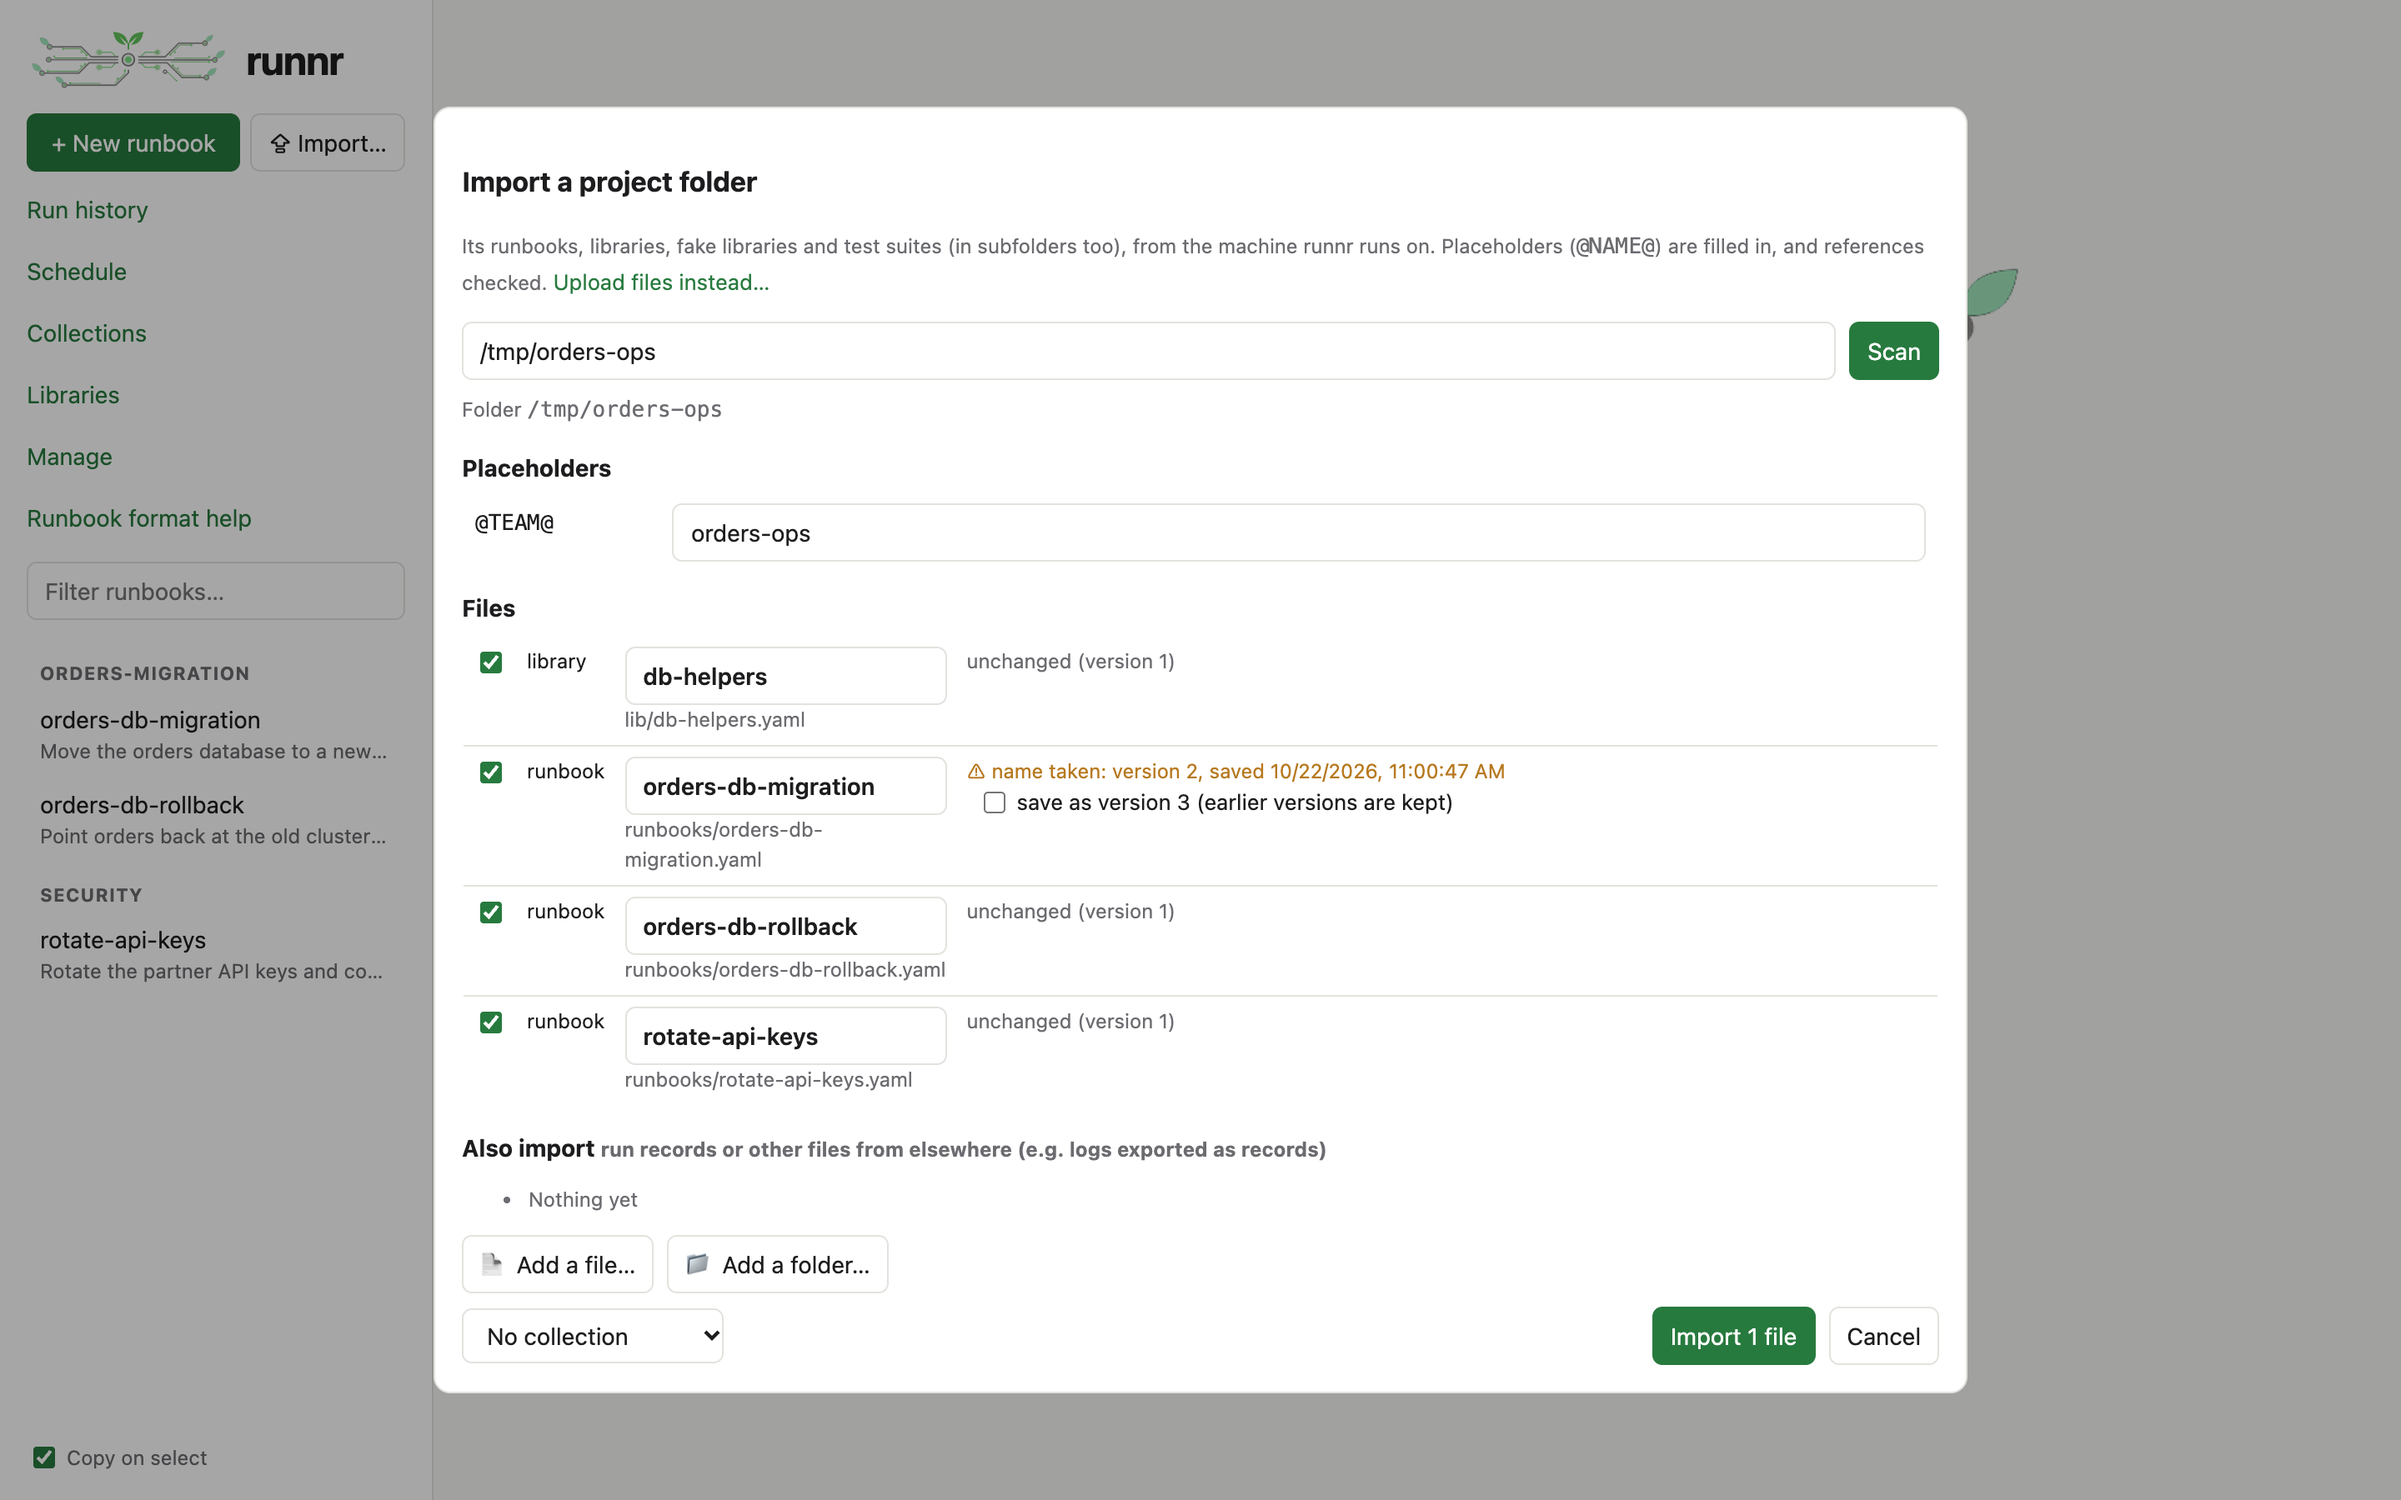
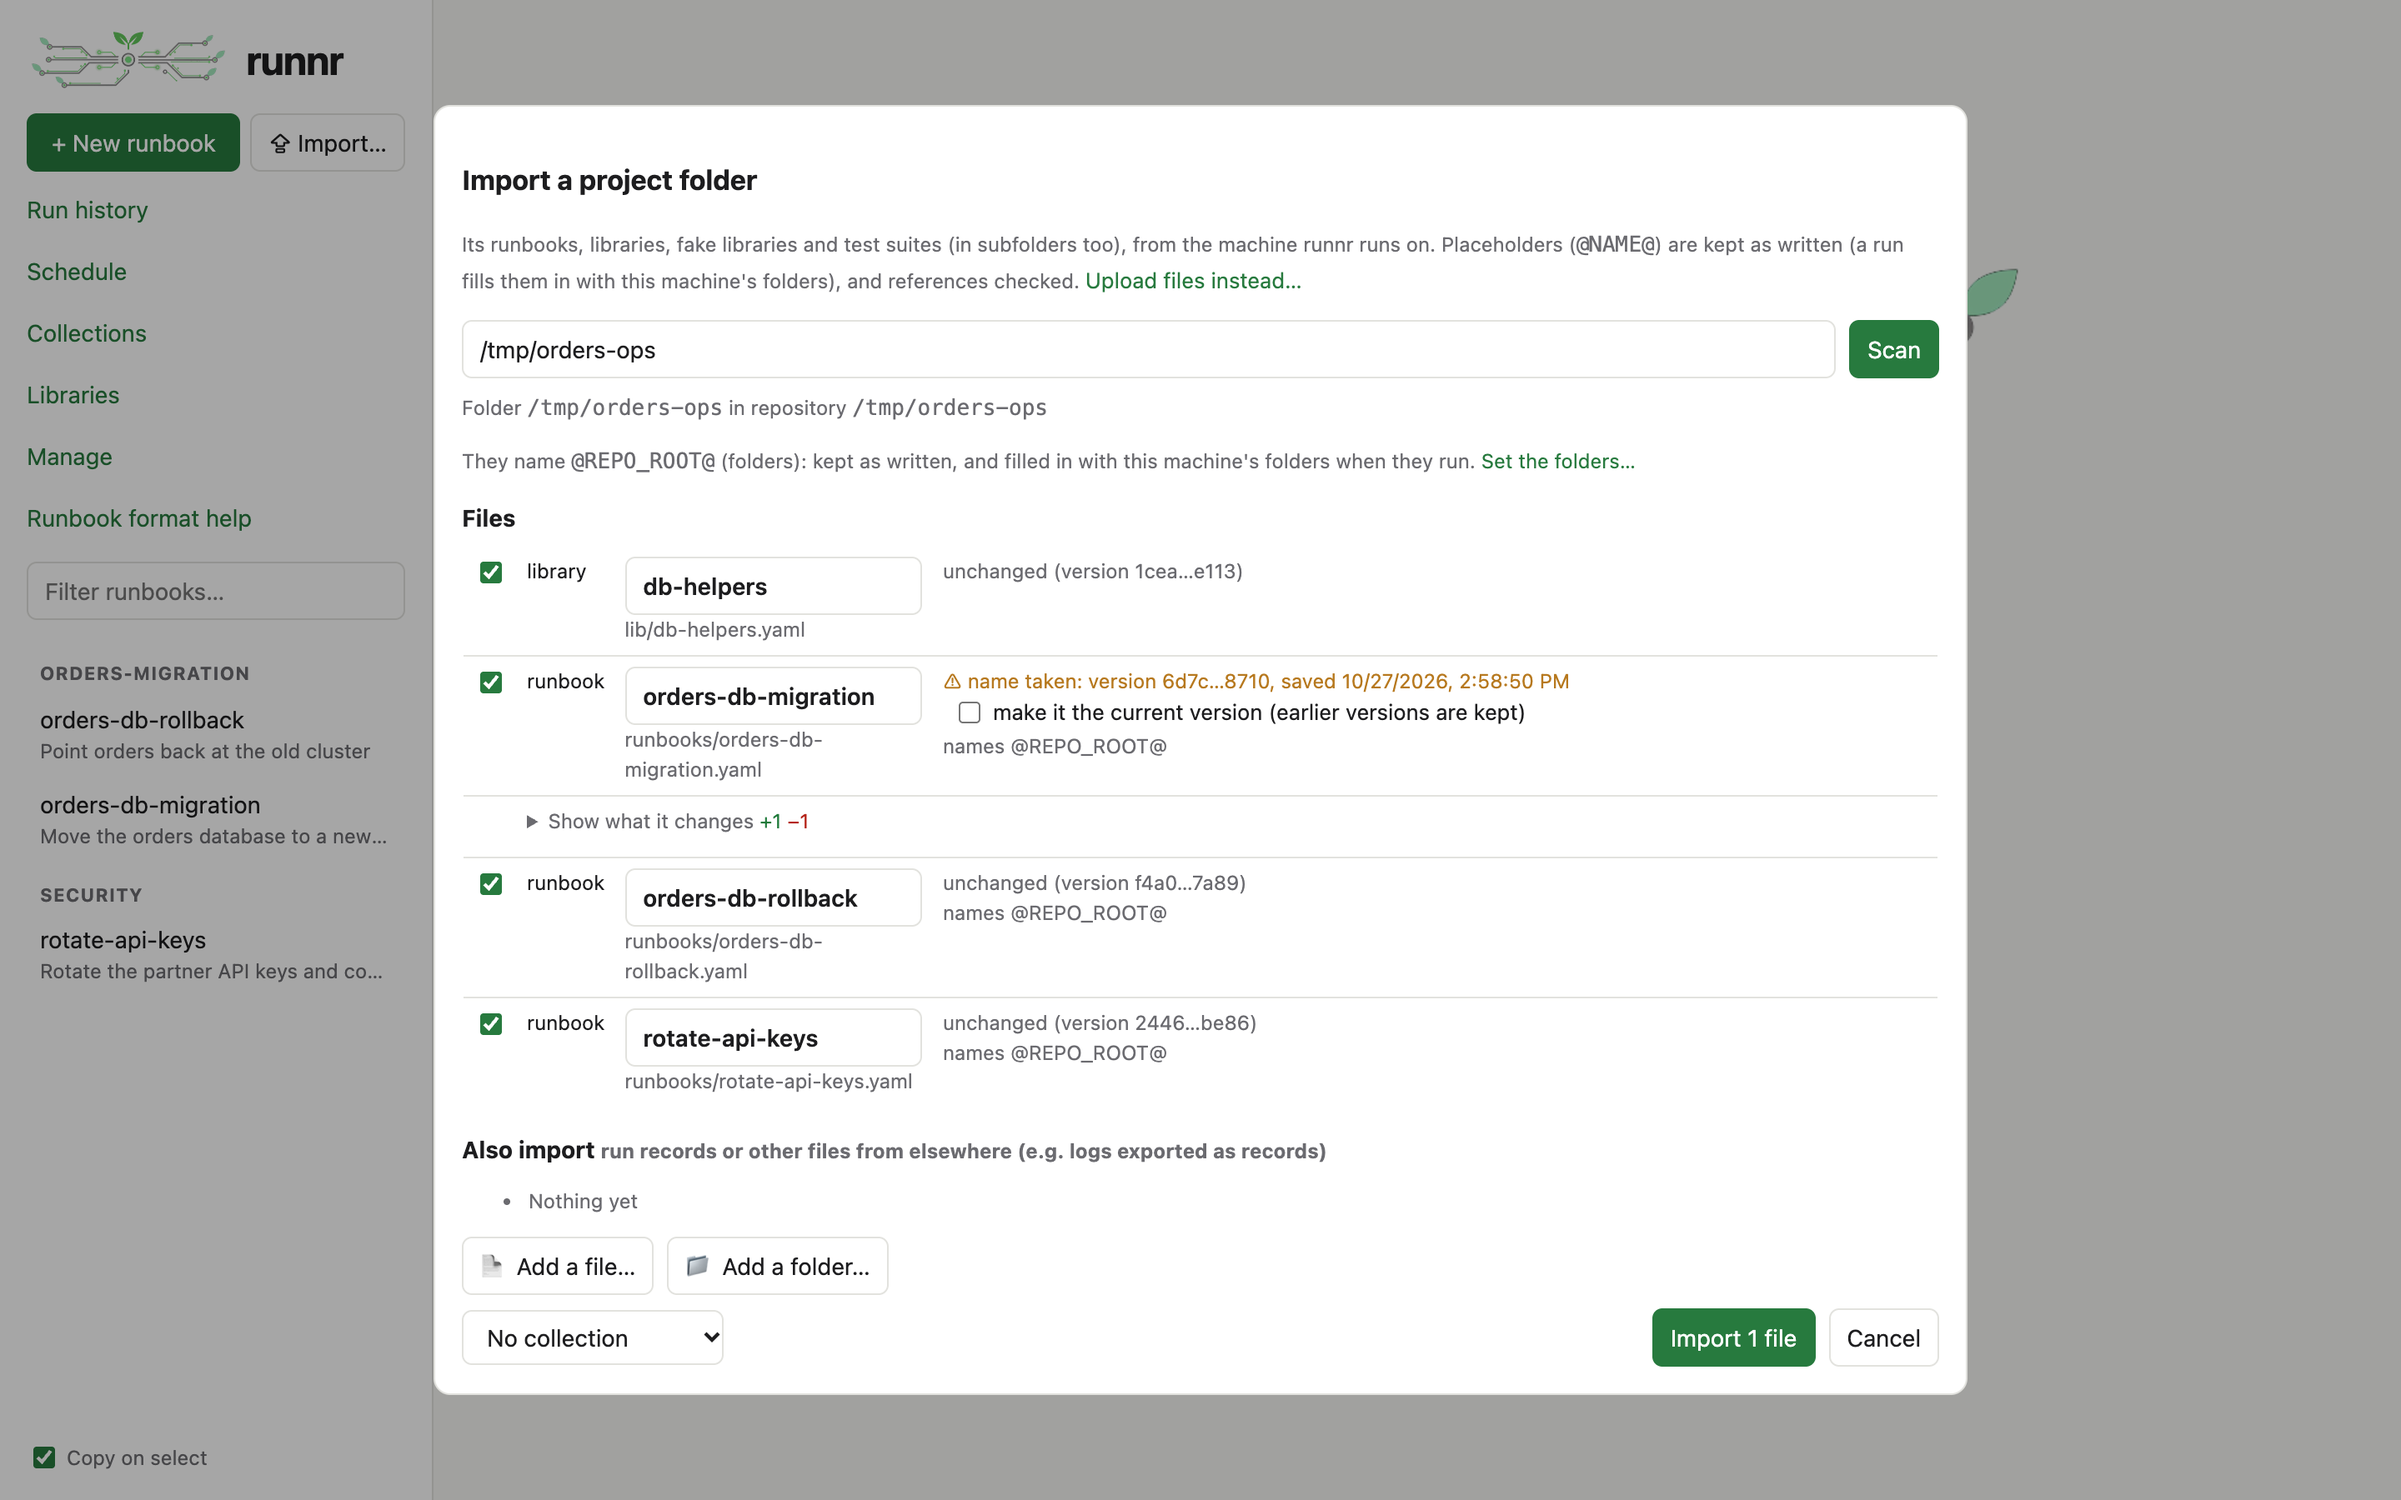
Console runs show their folders; import screenshot without placeholder values
The console's Inputs pane has the Run page's Folders card (choose the
collection, give folders for the run), and a start refused for a folder
goes back to it. The tour's import screenshot shows the dialog as it is
now: placeholders named, kept as written.

diff --git a/internal/server/web/console.js b/internal/server/web/console.js
@@ -1124,7 +1124,11 @@ function cxLaunchRenderAction(state) {
           const hint = [inp.description, inp.secret && "secret: not stored; leave blank to be asked when it's needed"].filter(Boolean).join(" · ");
           return `<label>${esc(inp.name)}${inp.required ? " *" : ""}</label>${ctl}${hint ? `<div class="hint">${esc(hint)}</div>` : ""}`;
         }).join("")}</div>` : `<p class="muted">This runbook takes no inputs.</p>`}
-      </div>`;
+      </div>
+      <div class="card cx-folders" hidden></div>`;
+    // The folders it fills placeholders with (kept across redraws).
+    const fm = mountFolders(body.querySelector(".cx-folders"), state.rb.name, state.mode === "run" ? null : state.prev, state.folders?.st);
+    state.folders = fm;
     body.querySelectorAll(".cx-inputs [name]").forEach((f) => (f.oninput = f.onchange = () => {
       state.vars[f.name] = f.value;
       state.refresh();
@@ -1168,6 +1172,7 @@ async function cxLaunchStart(state) {
   const body = {
     vars: cxLaunchVars(state), unattended: opts.unattended, yes: opts.yes, dry_run: opts.dry, step_mode: opts.step && !opts.unattended,
     skip: nums((i) => !state.include[i]), pause_before: nums((i) => state.before.has(i)), pause_after: nums((i) => state.after.has(i)),
+    ...(state.folders?.body() || { collection: state.mode === "run" ? "" : prev?.collection || "", folders: state.mode === "run" ? {} : prev?.folder_set || {} }),
   };
   if (opts.solo) {
     if (!author()) return toast("Give your name to drive it alone");
@@ -1186,5 +1191,9 @@ async function cxLaunchStart(state) {
       : await api("POST", "/api/runs", { ...body, runbook: rb.name, previous: prev?.id || "" });
     runView("console");
     location.hash = `#/runs/${enc(id)}/console`;
-  } catch (e) { toast(e.message); }
+  } catch (e) {
+    toast(e.message);
+    // A placeholder without a folder: show where to give one.
+    if (e.message.startsWith("can't start") && state.selected !== -1) { state.selected = -1; cxLaunchRender(state); }
+  }
 }

diff --git a/internal/server/web/launch.js b/internal/server/web/launch.js
@@ -325,9 +325,10 @@ function renderLaunchSteps(st) {
 // and the folders a run fills them with on this machine, from its
 // collection (or one chosen) and those set for everything; each can be
 // given for this run only. A run doesn't start while one has no folder.
-// prev is the run being resumed or run again (its collection and folders).
-function mountFolders(el, name, prev) {
-  const st = { collection: prev?.collection || "", set: { ...(prev?.folder_set || {}) }, f: null, all: [] };
+// prev is the run being resumed or run again (its collection and folders);
+// keep, the st of an earlier mount (to draw it again where it was).
+function mountFolders(el, name, prev, keep) {
+  const st = keep || { collection: prev?.collection || "", set: { ...(prev?.folder_set || {}) }, f: null, all: [] };
   const from = { run: "this run", collection: "the collection", global: "for everything" };
   const load = async () => {
     const q = new URLSearchParams();
@@ -352,7 +353,8 @@ function mountFolders(el, name, prev) {
     el.querySelector("[data-col]").onchange = (e) => { st.collection = e.target.value; load(); };
     el.querySelectorAll("[data-set]").forEach((i) => (i.onchange = () => { st.set[i.dataset.set] = i.value.trim(); load(); }));
   };
-  api("GET", "/api/collections").then((cs) => { st.all = (cs || []).map((c) => c.name).sort(); draw(); }).catch(() => {});
+  if (keep) draw();
+  else api("GET", "/api/collections").then((cs) => { st.all = (cs || []).map((c) => c.name).sort(); draw(); }).catch(() => {});
   load();
-  return { body: () => ({ collection: st.collection, folders: Object.fromEntries(Object.entries(st.set).filter(([, v]) => v)) }) };
+  return { st, body: () => ({ collection: st.collection, folders: Object.fromEntries(Object.entries(st.set).filter(([, v]) => v)) }) };
 }
